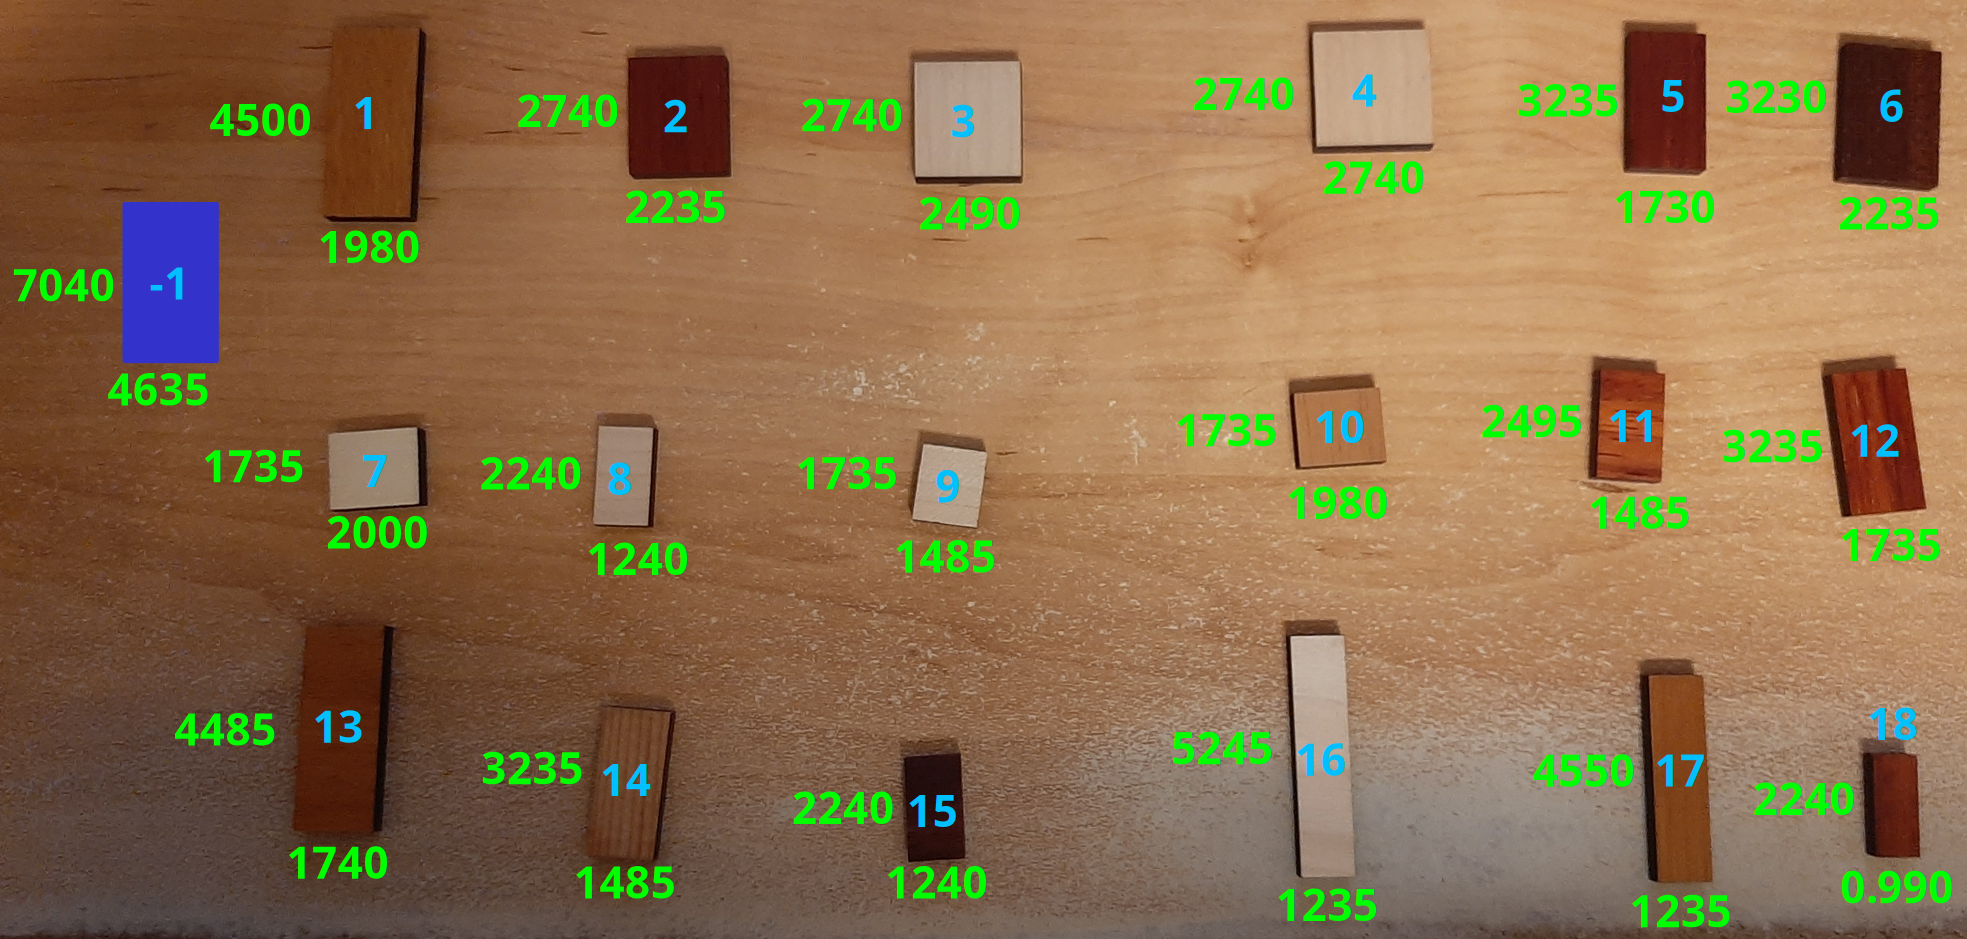
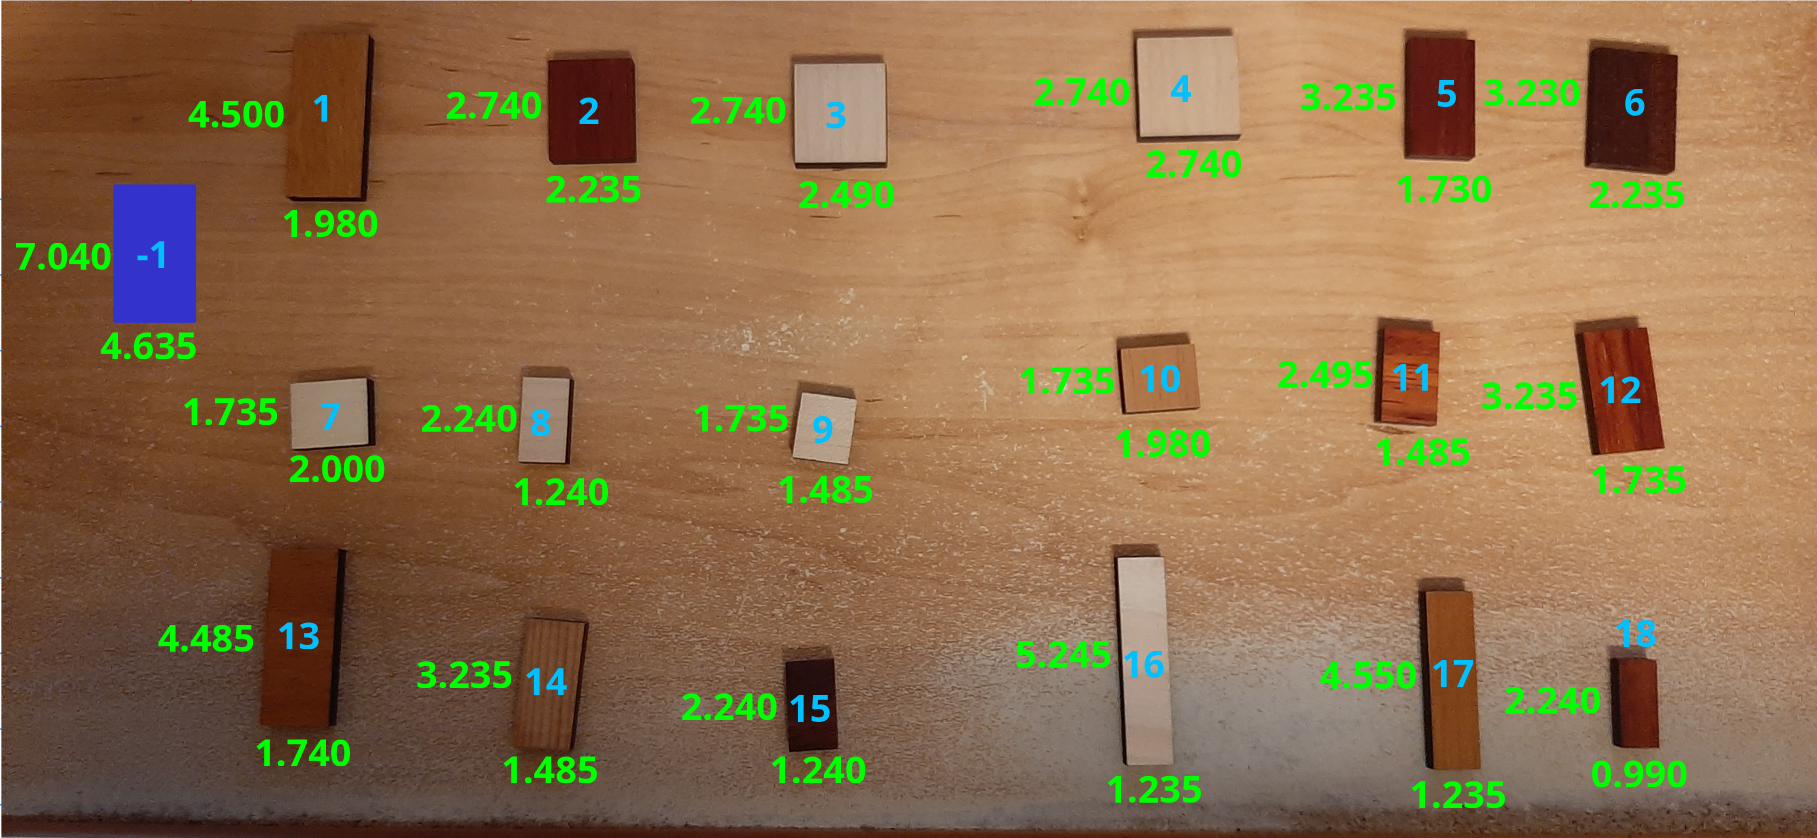
Nummern repariert

diff --git a/Readme.md b/Readme.md
@@ -12,7 +12,7 @@ Kombinationen mit weniger als 4 oder mehr als 8 Rechtecken passen nicht in das g
 Schmeißt alle Kombinationen, die ähnlich sind (also Rechtecke mit den gleichen Seitenlängen haben) raus
 
 ### `step3_filter_fitting_candidates`:
-Entfernt alle Kombinationen die unmöglich in das große Rechteck passen.  
+Entfernt alle Kombinationen, die unmöglich in das große Rechteck passen.  
 Idee: 
 - Einige Rechtecke einer Kombination sind drehbar, das muss berücksichtigt werden (nachfolgend Variable `prod`; wird mittels kartesischem Produkt realisiert)
 - Für jedes `prod` schaue dir alle Permutationen `per` an. Somit habe ich alle Reihenfolgen, in denen ich eine Kombination in das große Rechteck legen kann.
@@ -21,8 +21,8 @@ Idee:
   - Wenn eine "Reihe" voll ist, gehe auf die nächste "Reihe"
   - Wenn alle Rechtecke rechnerisch (ohne den Platz zwischen ihnen) in dieser Reihenfolge in das Rechteck passen:  
     Schiebe jedes Rechteck in Richtung der unteren linken Ecke des großen Rechtecks, solange es kein anderes berührt  
-    Wiederhole diesen Schritt, bis sich keiner des Rechtecke mehr bewegen lässt.
-  - Test, ob nun alle Rechtecke innerhalb des großen Rechtecks liegen.
+    Wiederhole diesen Schritt, bis sich keiner der Rechtecke mehr bewegen lässt.
+  - Testr, ob nun alle Rechtecke innerhalb des großen Rechtecks liegen.
 
 ### `step4_calculate_matches`:
 Um eine vollständige Lösung zu erhalten, müssen wir drei Kombinationen finden, die kein kleineres Rechteck gemeinsam haben.
@@ -40,7 +40,7 @@ Enthält außerdem ein paar Debug Sachen.
 
 
 ## Es geht um folgendes Puzzle:
-- Das blaue Rechteck ist das "große Rechteck", in welches alle kleineren in drei Ebenen reingelegt werden müssen.  
+- Das blaue Rechteck ist das "große Rechteck" (nicht maßstabsgetreu gezeichnet!), in welches alle kleineren in drei Ebenen reingelegt werden müssen.  
 - Überlappende Rechtecke sind nicht erlaubt.
 - Rechtecke auf die "Kanten" zu stellen, ist nicht erlaubt.
 - Alle kleineren Rechtecke müssen verwendet werden.